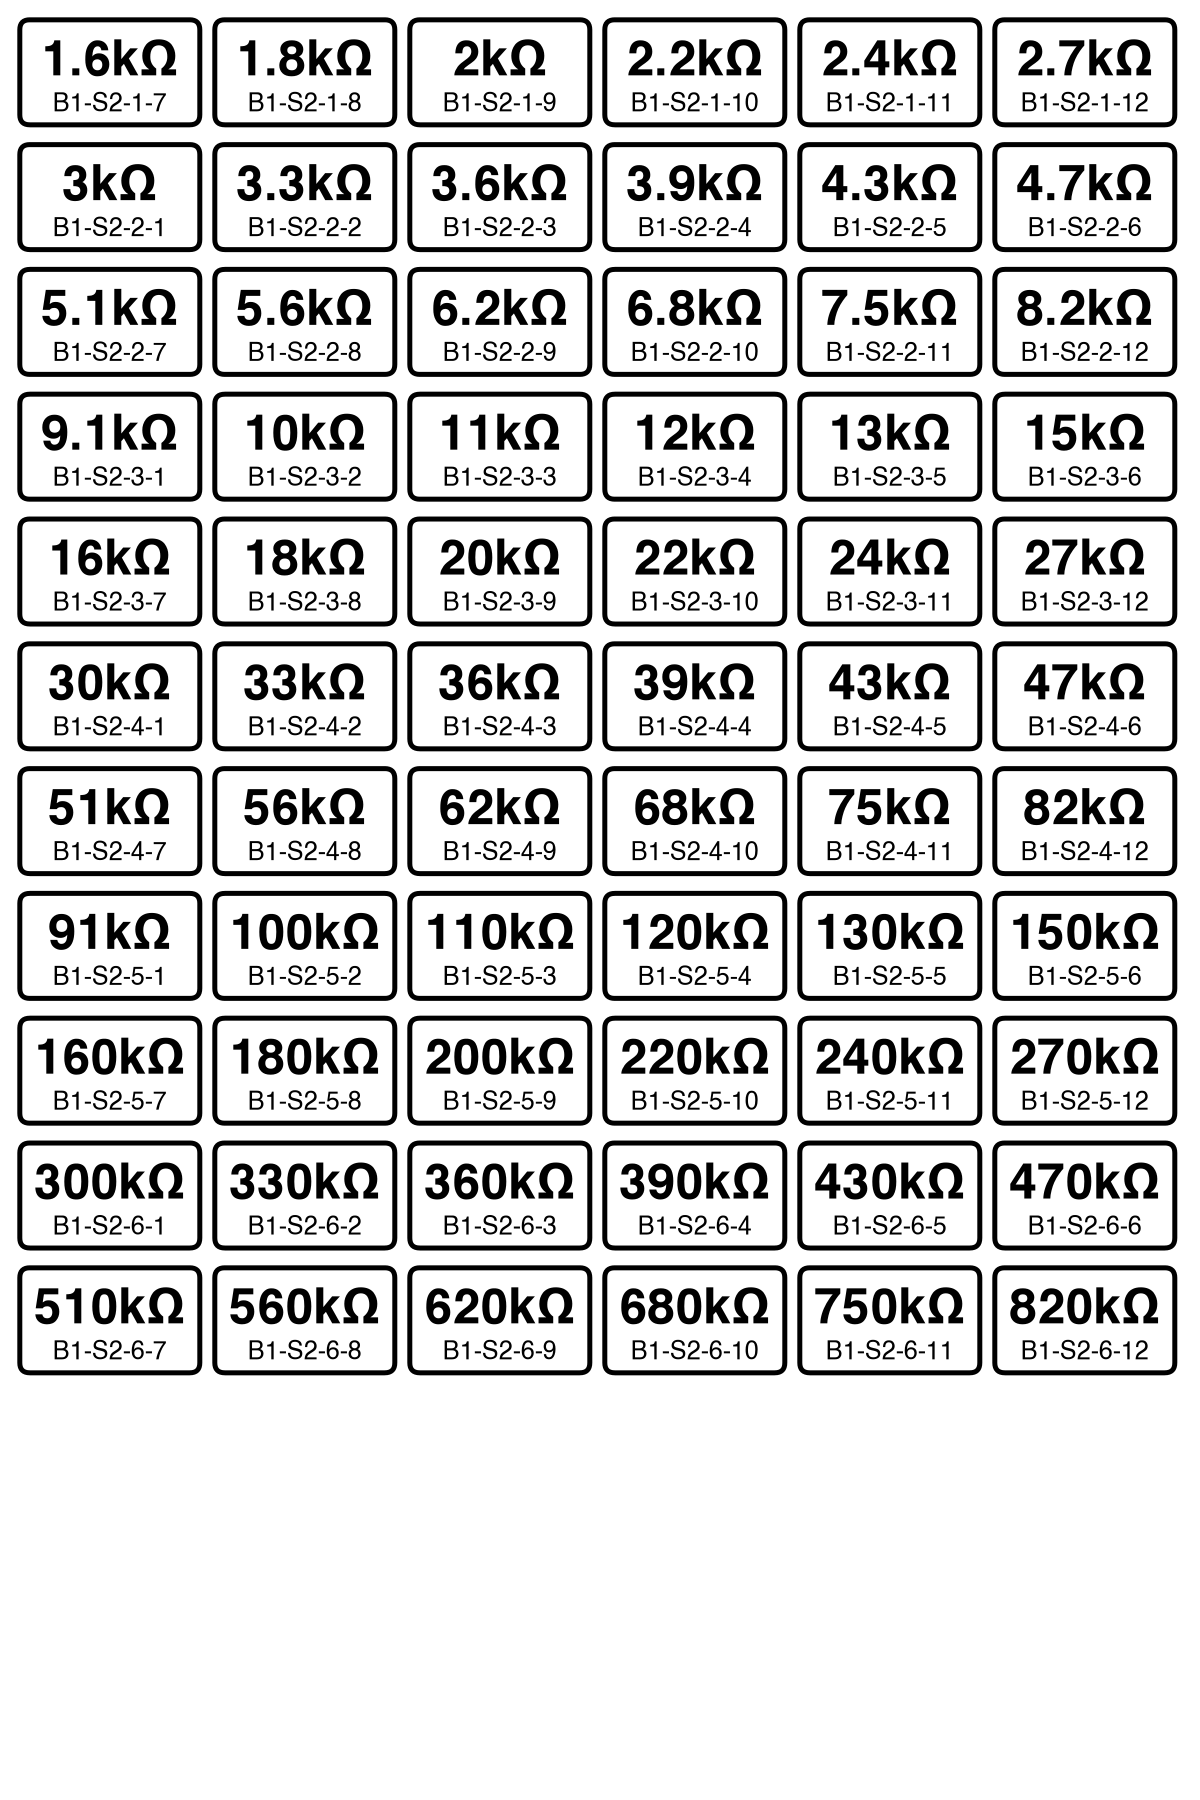
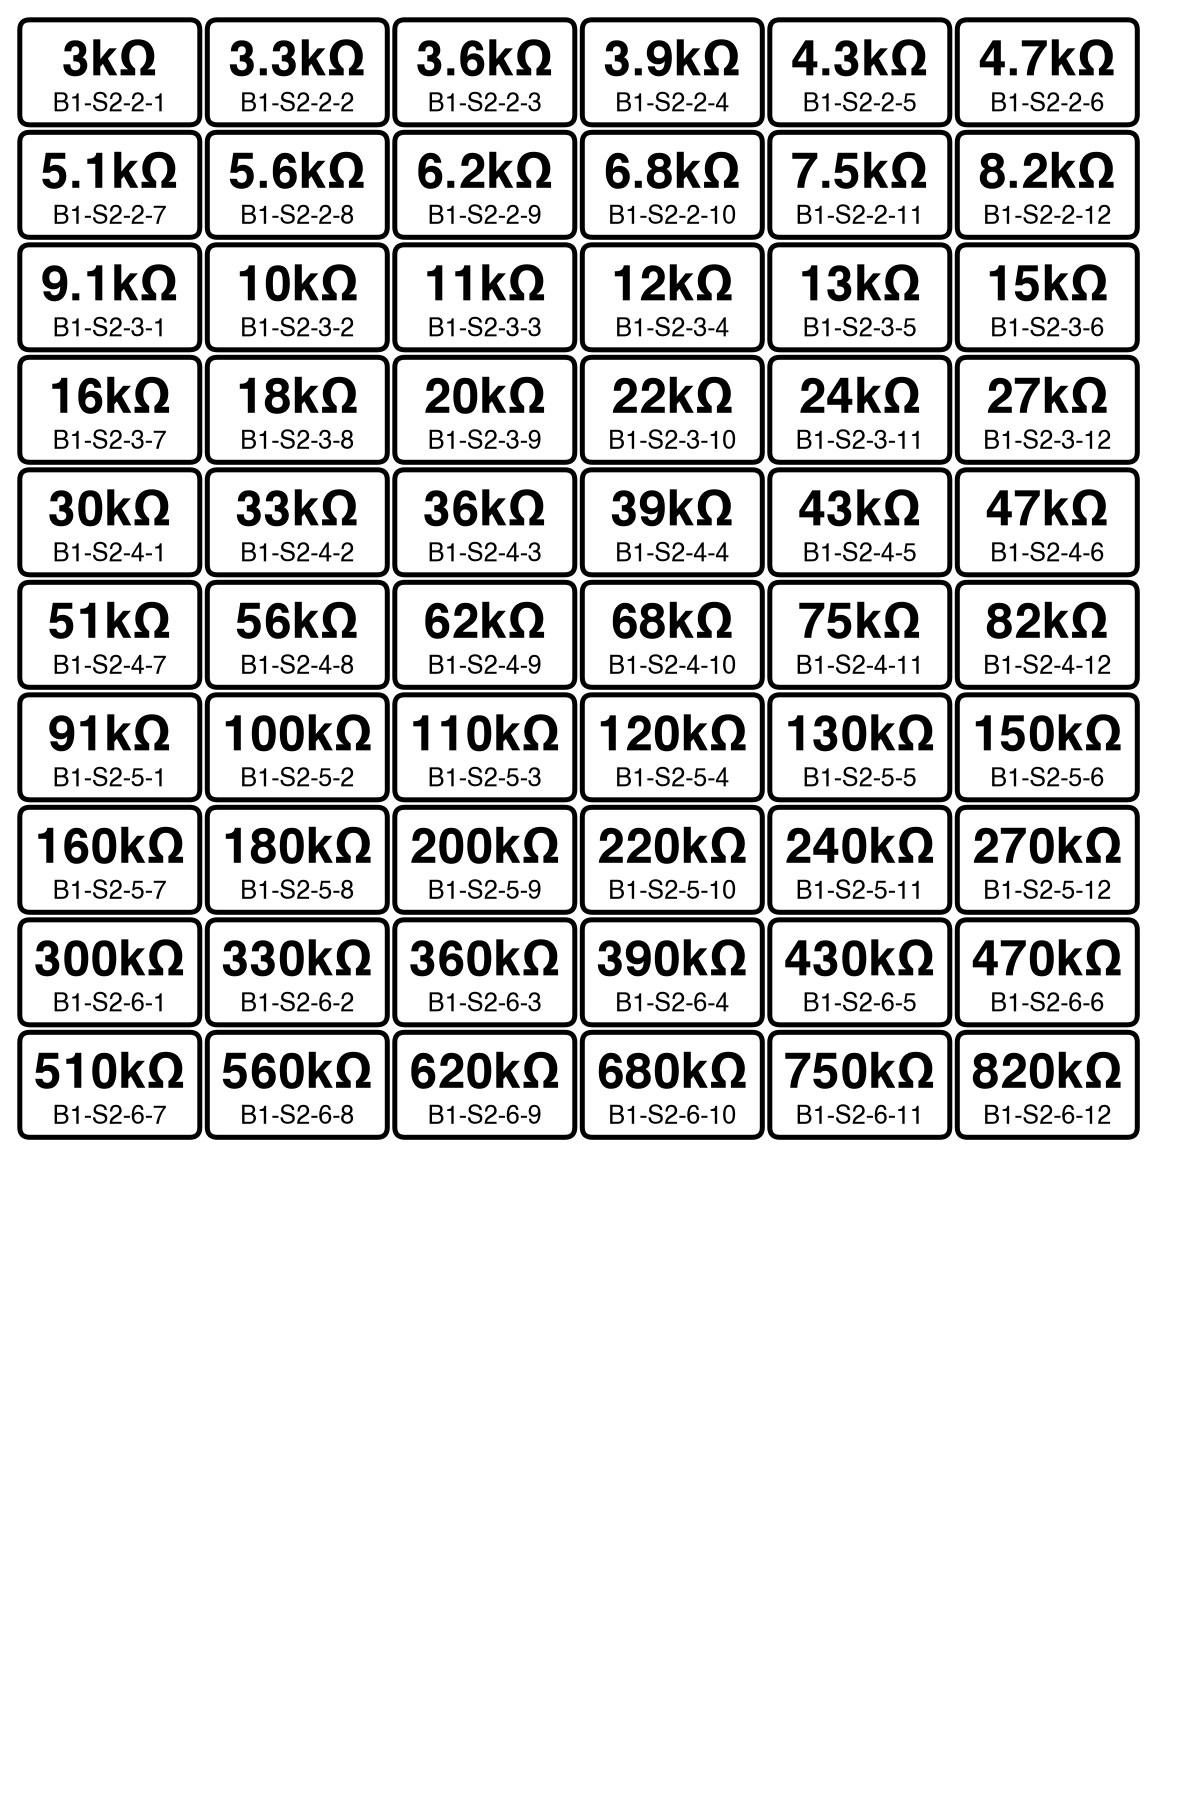
dimension optimization

diff --git a/Software/labelGeneratorV1.js b/Software/labelGeneratorV1.js
@@ -170,16 +170,16 @@ const exportImages = dir => { //Will export images from store
 			((st == "small")?smallLabelComponents:(st == "medium")?medLabelComponents:largeLabelComponents).push(componentPrintInfo[i]);
 		}
 		//Small
-		let labelsPerRowSmall = Math.floor(canvasWidthPx/(componentLabelSmallDim[1]+inToPx(0.066)));
-		let labelsPerSheetSmall = labelsPerRowSmall*Math.floor(canvasHeightPx/(componentLabelSmallDim[0]+inToPx(0.1)));
+		let labelsPerRowSmall = Math.floor(canvasWidthPx/(componentLabelSmallDim[1]+inToPx(0.025)));
+		let labelsPerSheetSmall = labelsPerRowSmall*Math.floor(canvasHeightPx/(componentLabelSmallDim[0]+inToPx(0.075)));
 		let labelSheetsSmall = Math.ceil(smallLabelComponents.length/labelsPerSheetSmall);
 		//Med
-		let labelsPerRowMedium = Math.floor(canvasWidthPx/(componentLabelMediumDim[1]+inToPx(0.066)));
-		let labelsPerSheetMedium = labelsPerRowMedium*Math.floor(canvasHeightPx/(componentLabelMediumDim[0]+inToPx(0.1)));
+		let labelsPerRowMedium = Math.floor(canvasWidthPx/(componentLabelMediumDim[1]+inToPx(0.025)));
+		let labelsPerSheetMedium = labelsPerRowMedium*Math.floor(canvasHeightPx/(componentLabelMediumDim[0]+inToPx(0.075)));
 		let labelSheetsMedium = Math.ceil(mediumLabelComponents.length/labelsPerSheetMedium);
 		//Large
-		let labelsPerRowLarge = Math.floor(canvasWidthPx/(componentLabelLargeDim[1]+inToPx(0.066)));
-		let labelsPerSheetLarge = labelsPerRowLarge*Math.floor(canvasHeightPx/(componentLabelLargeDim[0]+inToPx(0.1)));
+		let labelsPerRowLarge = Math.floor(canvasWidthPx/(componentLabelLargeDim[1]+inToPx(0.025)));
+		let labelsPerSheetLarge = labelsPerRowLarge*Math.floor(canvasHeightPx/(componentLabelLargeDim[0]+inToPx(0.075)));
 		let labelSheetsLarge = Math.ceil(largeLabelComponents.length/labelsPerSheetLarge);
 
 		let compIdx = 0;
@@ -211,10 +211,10 @@ const exportImages = dir => { //Will export images from store
 					const codeWidth = ctx.measureText(code).width;
 					ctx.fillText(code, ((componentLabelSmallDim[1]-codeWidth)/2)+x, y+inToPx(0.225));
 
-					x+=componentLabelSmallDim[1]+inToPx(0.05);
+					x+=componentLabelSmallDim[1]+inToPx(0.025);
 					if (x/componentLabelSmallDim[1] > labelsPerRowSmall) {
 						x = inToPx(0.066);
-						y+=componentLabelSmallDim[0]+inToPx(0.066);
+						y+=componentLabelSmallDim[0]+inToPx(0.025);
 					}
 					compIdx++;
 				}
@@ -251,10 +251,10 @@ const exportImages = dir => { //Will export images from store
 					const codeWidth = ctx.measureText(code).width;
 					ctx.fillText(code, ((componentLabelMediumDim[1]-codeWidth)/2)+x, y+inToPx(0.225));
 
-					x+=componentLabelMediumDim[1]+inToPx(0.05);
+					x+=componentLabelMediumDim[1]+inToPx(0.025);
 					if (x/componentLabelMediumDim[1] > labelsPerRowMedium) {
 						x = inToPx(0.066);
-						y+=componentLabelMediumDim[0]+inToPx(0.066);
+						y+=componentLabelMediumDim[0]+inToPx(0.025);
 					}
 					compIdx++;
 				}
@@ -292,10 +292,10 @@ const exportImages = dir => { //Will export images from store
 					const codeWidth = ctx.measureText(code).width;
 					ctx.fillText(code, ((componentLabelLargeDim[1]-codeWidth)/2)+x, y+inToPx(0.225));
 
-					x+=componentLabelLargeDim[1]+inToPx(0.05);
+					x+=componentLabelLargeDim[1]+inToPx(0.025);
 					if (x/componentLabelLargeDim[1] > labelsPerRowLarge) {
 						x = inToPx(0.066);
-						y+=componentLabelLargeDim[0]+inToPx(0.066);
+						y+=componentLabelLargeDim[0]+inToPx(0.025);
 					}
 					compIdx++;
 				}
